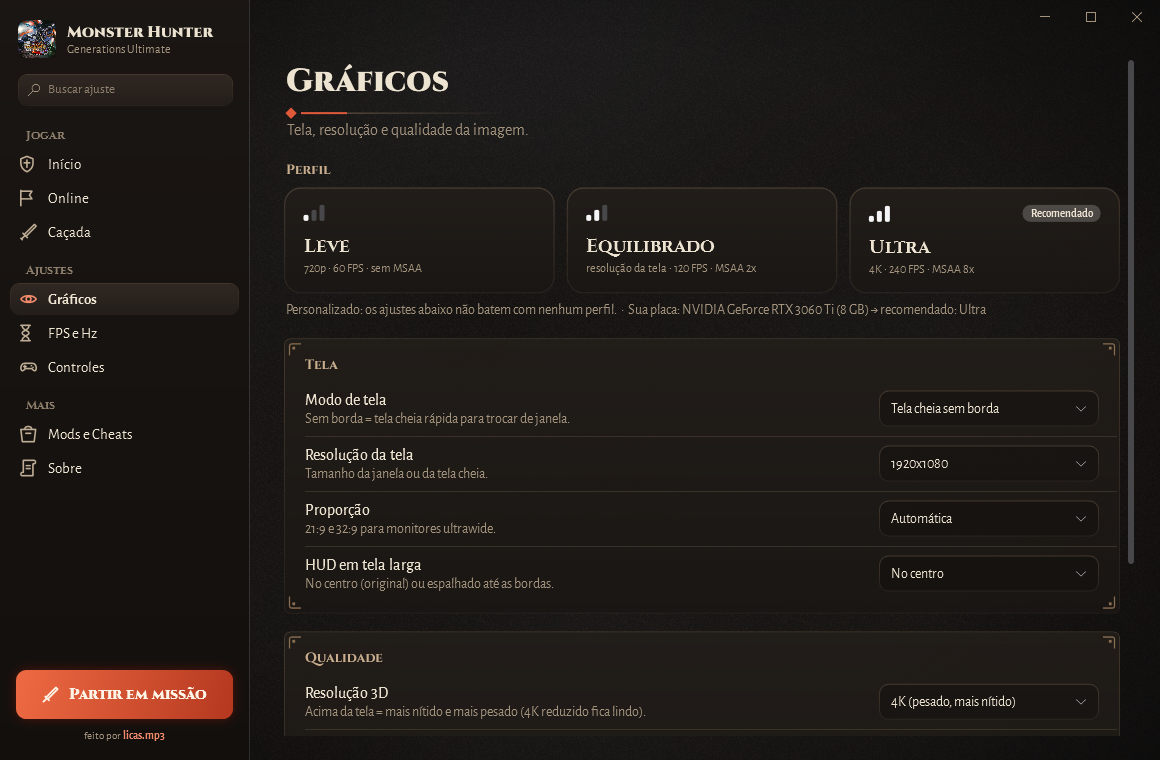
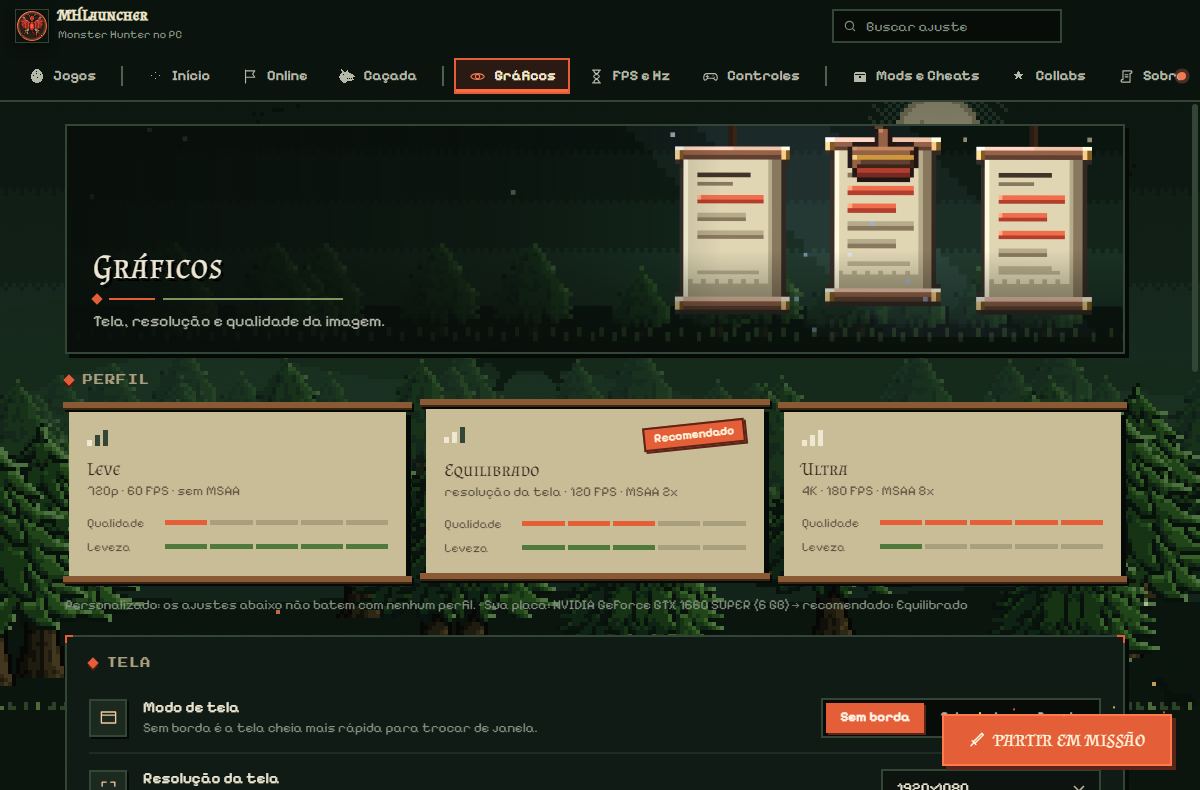
README: prints atuais do tema pixel e textos em dia
- docs/img: prints novos de todas as abas no tema pixel, com a floresta nova ao fundo (o da aba
  Online termina antes do campo com o endereço do amigo)
- nomes certos dos arquivos dos Releases (MHLAUNCHER-3.x.x-windows.exe, .AppImage, .deb, Novo-MHGU.zip)
- Linux nos requisitos; Caçada com hitmarker, afiação exata e medidor de dano; aba Sobre e Collabs
- seção do visual em pixel art
- fontes do tema pixel (Almendra SC, Pixelify Sans, Press Start 2P) nos créditos e em TERCEIROS.md

diff --git a/README.md b/README.md
@@ -24,7 +24,7 @@ O Generations Ultimate nativo, traduzido, com texturas HD e online com os amigos
 ---
 
 <div align="center">
-  <img src="docs/img/inicio.png" alt="Tela inicial do MHGU Launcher" width="85%">
+  <img src="docs/img/inicio.png" alt="Tela inicial do MHLAUNCHER, com a floresta em pixel art ao fundo" width="85%">
 </div>
 
 ## 🐉 Biblioteca
@@ -54,8 +54,8 @@ Os ports são projetos de fãs, cada um com o seu autor e a sua licença. Nenhum
 
 O launcher foi refeito em **Electron** para rodar igual no **Windows** e no **Linux** (Ubuntu, Arch...):
 
-- **Windows:** `MHGU-Launcher-3.x.x-windows.exe` (portátil: coloque na pasta do `mhgurecomp.exe`)
-- **Linux:** `MHGU-Launcher-3.x.x-linux.AppImage` ou `.deb` (aponte a pasta do port na primeira vez)
+- **Windows:** `MHLAUNCHER-3.x.x-windows.exe` (portátil: coloque na pasta do `mhgurecomp.exe`)
+- **Linux:** `MHLAUNCHER-3.x.x-linux.AppImage` ou `.deb` (aponte a pasta do port na primeira vez)
 
 O port oficial roda no Windows e no Linux. O macOS ainda não é suportado pelo port, então o launcher de Mac fica para quando ele for.
 
@@ -64,7 +64,7 @@ O port oficial roda no Windows e no Linux. O macOS ainda não é suportado pelo 
 > [!IMPORTANT]
 > O jogo **não vem junto**. Você precisa da **sua própria cópia** do Monster Hunter Generations Ultimate (Switch), na versão **1.4.0**.
 
-1. Baixe o **`Novo MHGU.zip`** em [Releases](../../releases/latest) e extraia (botão direito → *Extrair tudo*).
+1. Baixe o **`Novo-MHGU.zip`** em [Releases](../../releases/latest) e extraia (botão direito → *Extrair tudo*).
 2. Abra o **`Instalar MHGU.exe`** e siga as telas:
    - escolha a pasta onde instalar;
    - aponte o jogo base (**`.xci`**), o update 1.4.0 (**`.nsp`**) e o seu **`prod.keys`**.
@@ -73,13 +73,13 @@ O port oficial roda no Windows e no Linux. O macOS ainda não é suportado pelo 
 3. Espere a instalação (uns 10 minutos) e abra pelo atalho **MHGU PC (pt-BR HD)** na área de trabalho.
 
 > [!TIP]
-> Já tem o port instalado? Baixe só o **`MHGU-Launcher.exe`** e coloque na pasta do `mhgurecomp.exe`.
+> Já tem o port instalado? Baixe só o **`MHLAUNCHER-3.x.x-windows.exe`** e coloque na pasta do `mhgurecomp.exe`.
 
 ### Requisitos
 
 | | Mínimo |
 |---|---|
-| Sistema | Windows 10 ou 11, 64 bits |
+| Sistema | Windows 10 ou 11, 64 bits, ou Linux 64 bits (Ubuntu, Arch...) |
 | Processador | com AVX2 (Intel a partir da 4ª geração, AMD Ryzen) |
 | Placa de vídeo | com Vulkan 1.2 |
 | Espaço | ~30 GB livres durante a instalação |
@@ -120,7 +120,7 @@ Mostra os **controles conectados** na hora (DualSense, DualShock, Xbox, Pro Cont
 <td width="50%" valign="top">
 
 ### 🩸 Caçada
-Liga e desliga a **barra de vida** e os **números de dano**, mostra o **diagnóstico da última caçada**, ajusta a **vida dos monstros** pelo número de caçadores e libera as **missões da Vila no Hub**.
+Liga e desliga a **barra de vida**, os **números de dano**, o **hitmarker**, a **afiação exata** da arma e o **medidor de dano** da missão, mostra o **diagnóstico da última caçada**, ajusta a **vida dos monstros** pelo número de caçadores e libera as **missões da Vila no Hub**.
 
 </td>
 </tr>
@@ -142,9 +142,22 @@ Liga e desliga mods e cheats sem mexer em pastas.
 
 </td>
 </tr>
+<tr>
+<td width="50%" valign="top">
+
+### 📖 Sobre
+A versão do launcher e do port com o botão de **atualizar**, as **pastas** do jogo, dos saves e das screenshots e o log do jogo a um clique, e os créditos de quem fez cada parte.
+
+</td>
+<td width="50%"><img src="docs/img/sobre.png" alt="Página Sobre"></td>
+</tr>
 </table>
 
-**E também:** seus caçadores na tela inicial (nome, HR, horas e zenny), **importação do save** do Eden/yuzu/Ryujinx com backup automático, e as configurações salvas sozinhas.
+### 🎨 Visual em pixel art
+
+O launcher inteiro é em pixel art, com direção de arte da Thainá. No fundo, uma floresta à noite com o pinheiro desenhado por ela: três fileiras iluminadas pela lua, neblina entre elas, vaga-lumes e, de vez em quando, um wyvern gorducho cruzando o céu. No alto de cada aba, uma cena animada com a sua própria luz: o quadro de missões com a lanterna, a bigorna e o martelo na brasa da forja, a ampulheta escoando, os pergaminhos ao luar, o controle com LEDs, o baú de mods e o livro do Sobre. Tudo anda em degraus, como jogo antigo.
+
+**E também:** a aba **Collabs** com as missões de colaboração e onde achar cada uma, seus caçadores na tela inicial (nome, HR, horas e zenny), **importação do save** do Eden/yuzu/Ryujinx com backup automático, e as configurações salvas sozinhas.
 
 ## 🤝 Jogar online
 
@@ -205,6 +218,7 @@ O jogo base precisa ser o **`.xci`** (o `.nsp` do jogo base não é aceito) e o 
 - [ ] Distância de visão maior
 - [x] Visual de guilda: quadro de missões, cartão de guilda, cenas animadas e perfis Leve / Equilibrado / Ultra
 - [x] Online de verdade: amigos online, Hub aberto, ping e aviso de versão
+- [x] Tema em pixel art: floresta animada ao fundo e uma cena com luz própria em cada aba
 
 ## 💬 Comunidade
 
@@ -255,6 +269,7 @@ O MHLAUNCHER instala e abre estes ports. Todo o mérito de rodar os jogos no PC 
 | Fexty12573 | Forge |
 | SciresM | hactool |
 | [Natanael Gama](https://github.com/NDISCOVER/Cinzel-Typeface) e [Huerta Tipográfica](https://www.huertatipografica.com/) | Fontes Cinzel e Alegreya Sans (SIL Open Font License 1.1) |
+| Ana Sanfelippo, [Pixelify Sans Project Authors](https://github.com/eifetx/Pixelify-Sans) e Press Start 2P Project Authors | Fontes Almendra SC, Pixelify Sans e Press Start 2P do tema pixel (SIL Open Font License 1.1) |
 
 Licenças de cada um em [TERCEIROS.md](TERCEIROS.md).
 

diff --git a/TERCEIROS.md b/TERCEIROS.md
@@ -13,6 +13,7 @@ O MHLAUNCHER usa ou baixa estes projetos. Cada um pertence ao seu autor e segue 
 | Forge | Fexty12573 | ver o repositório |
 | hactool | SciresM | ISC |
 | [Cinzel](https://github.com/NDISCOVER/Cinzel-Typeface) e Alegreya Sans | Natanael Gama, Huerta Tipográfica | SIL Open Font License 1.1 |
+| Almendra SC, [Pixelify Sans](https://github.com/eifetx/Pixelify-Sans) e Press Start 2P (fontes do tema pixel) | Ana Sanfelippo, The Pixelify Sans Project Authors, The Press Start 2P Project Authors | SIL Open Font License 1.1 |
 
 ## MHGURecomp (MIT)
 
